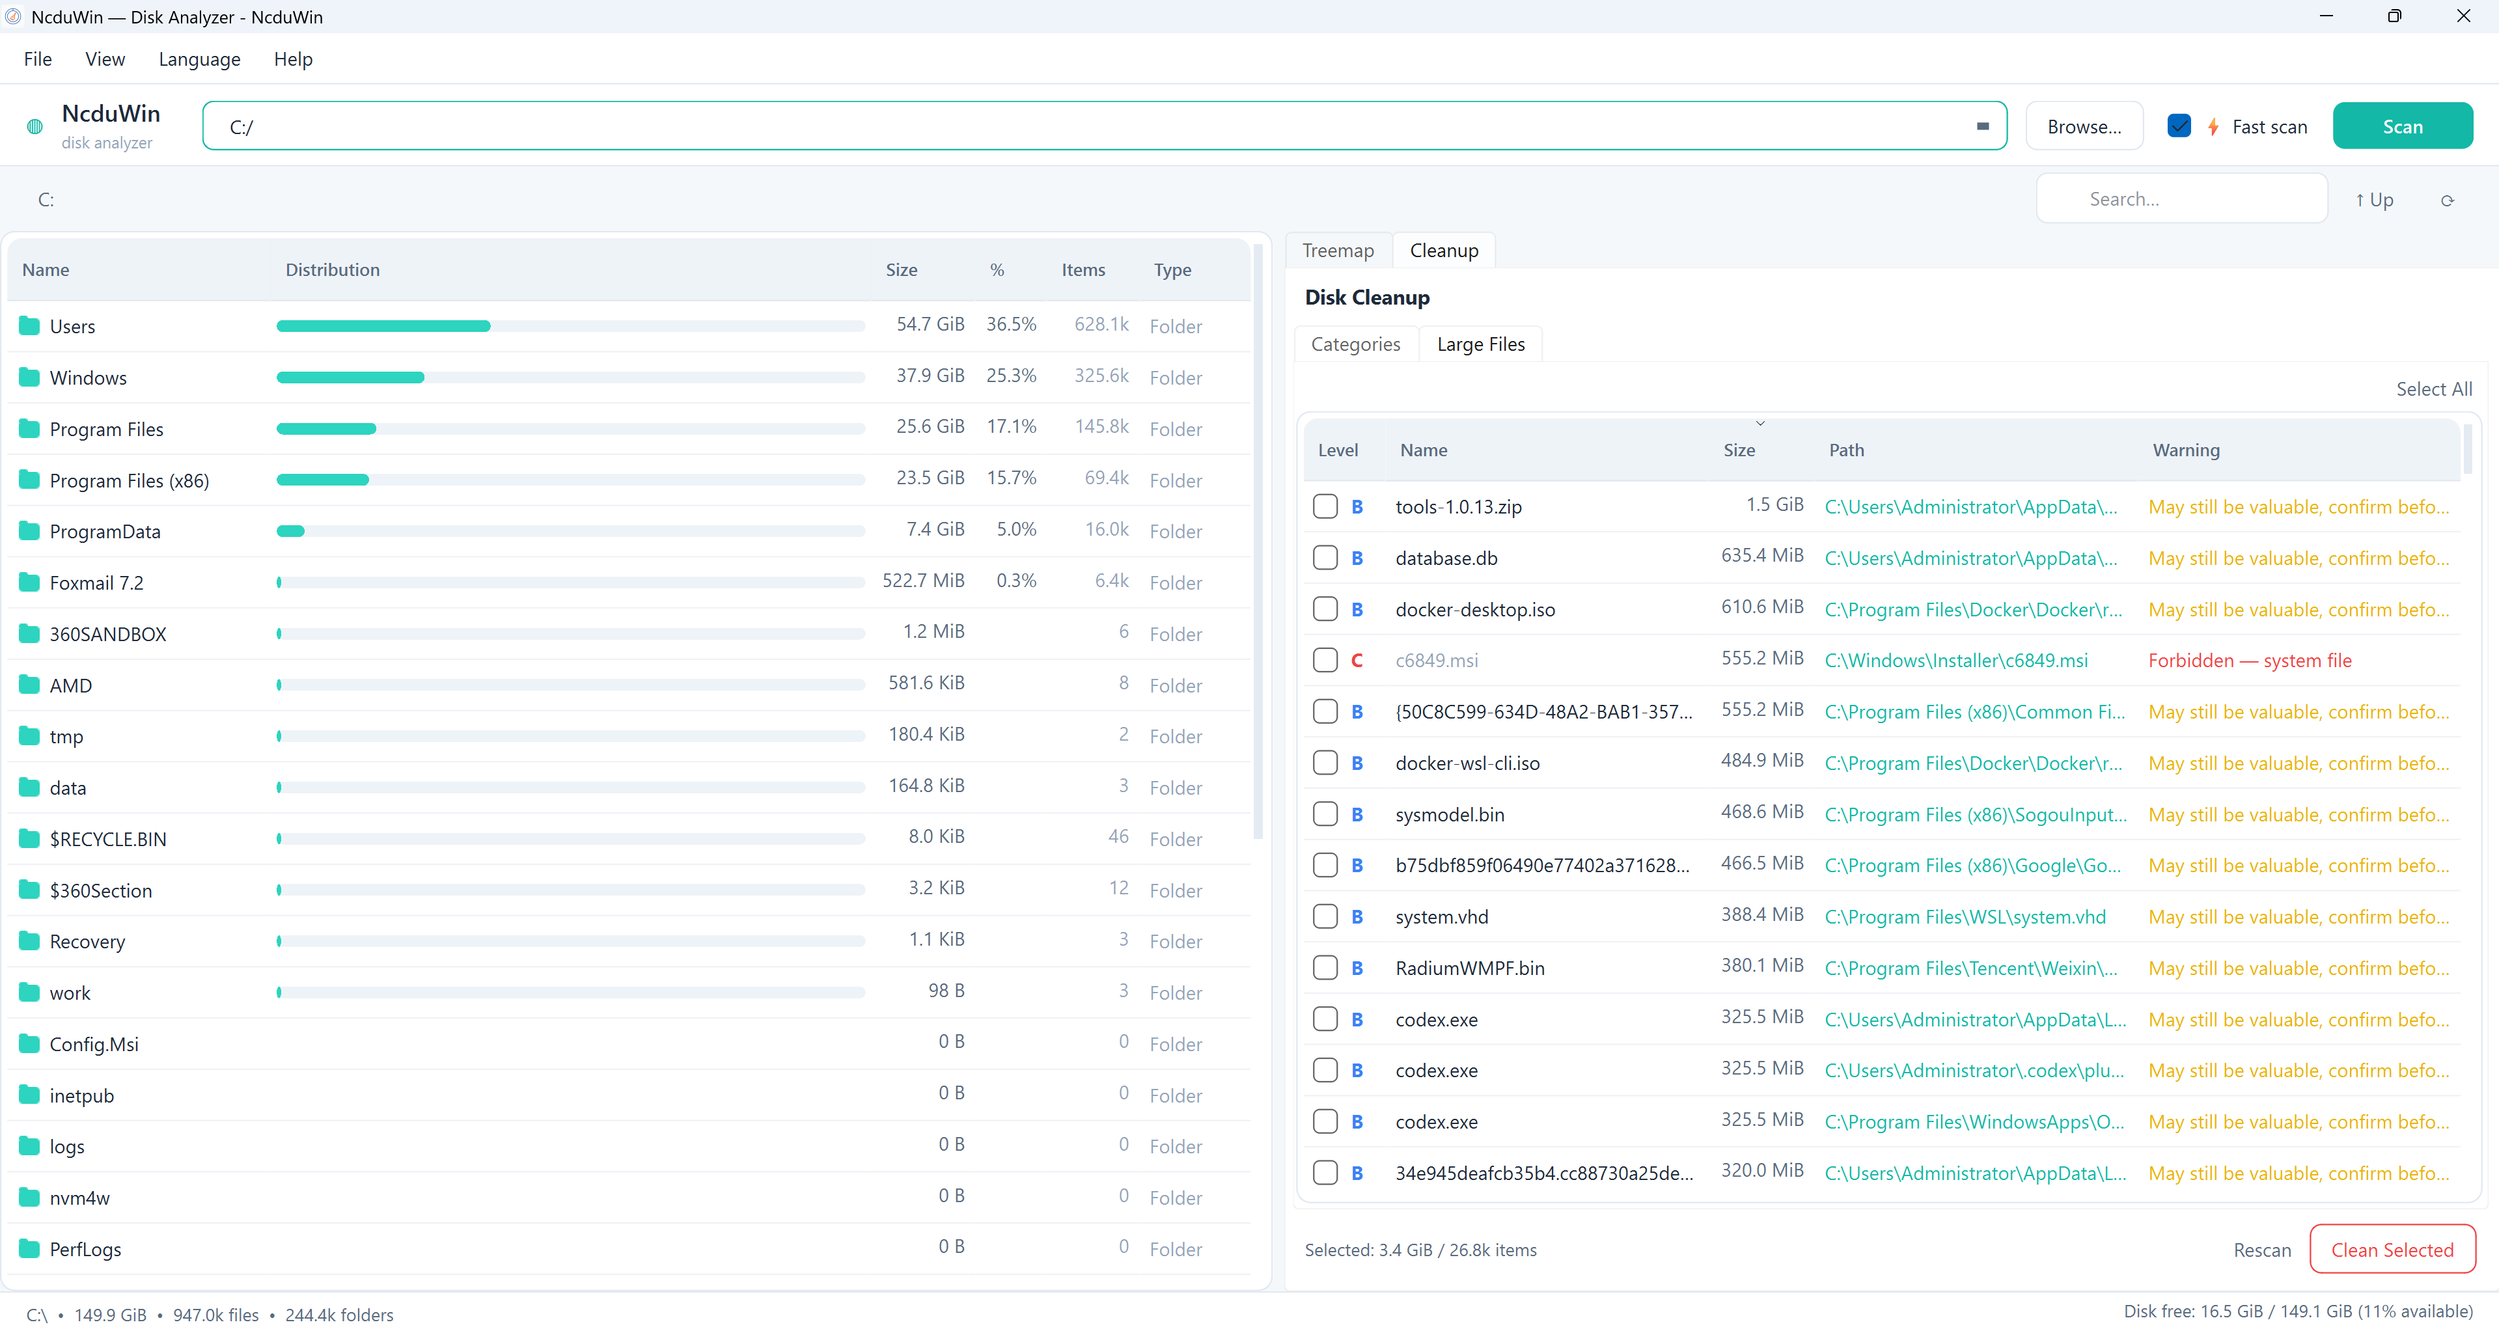
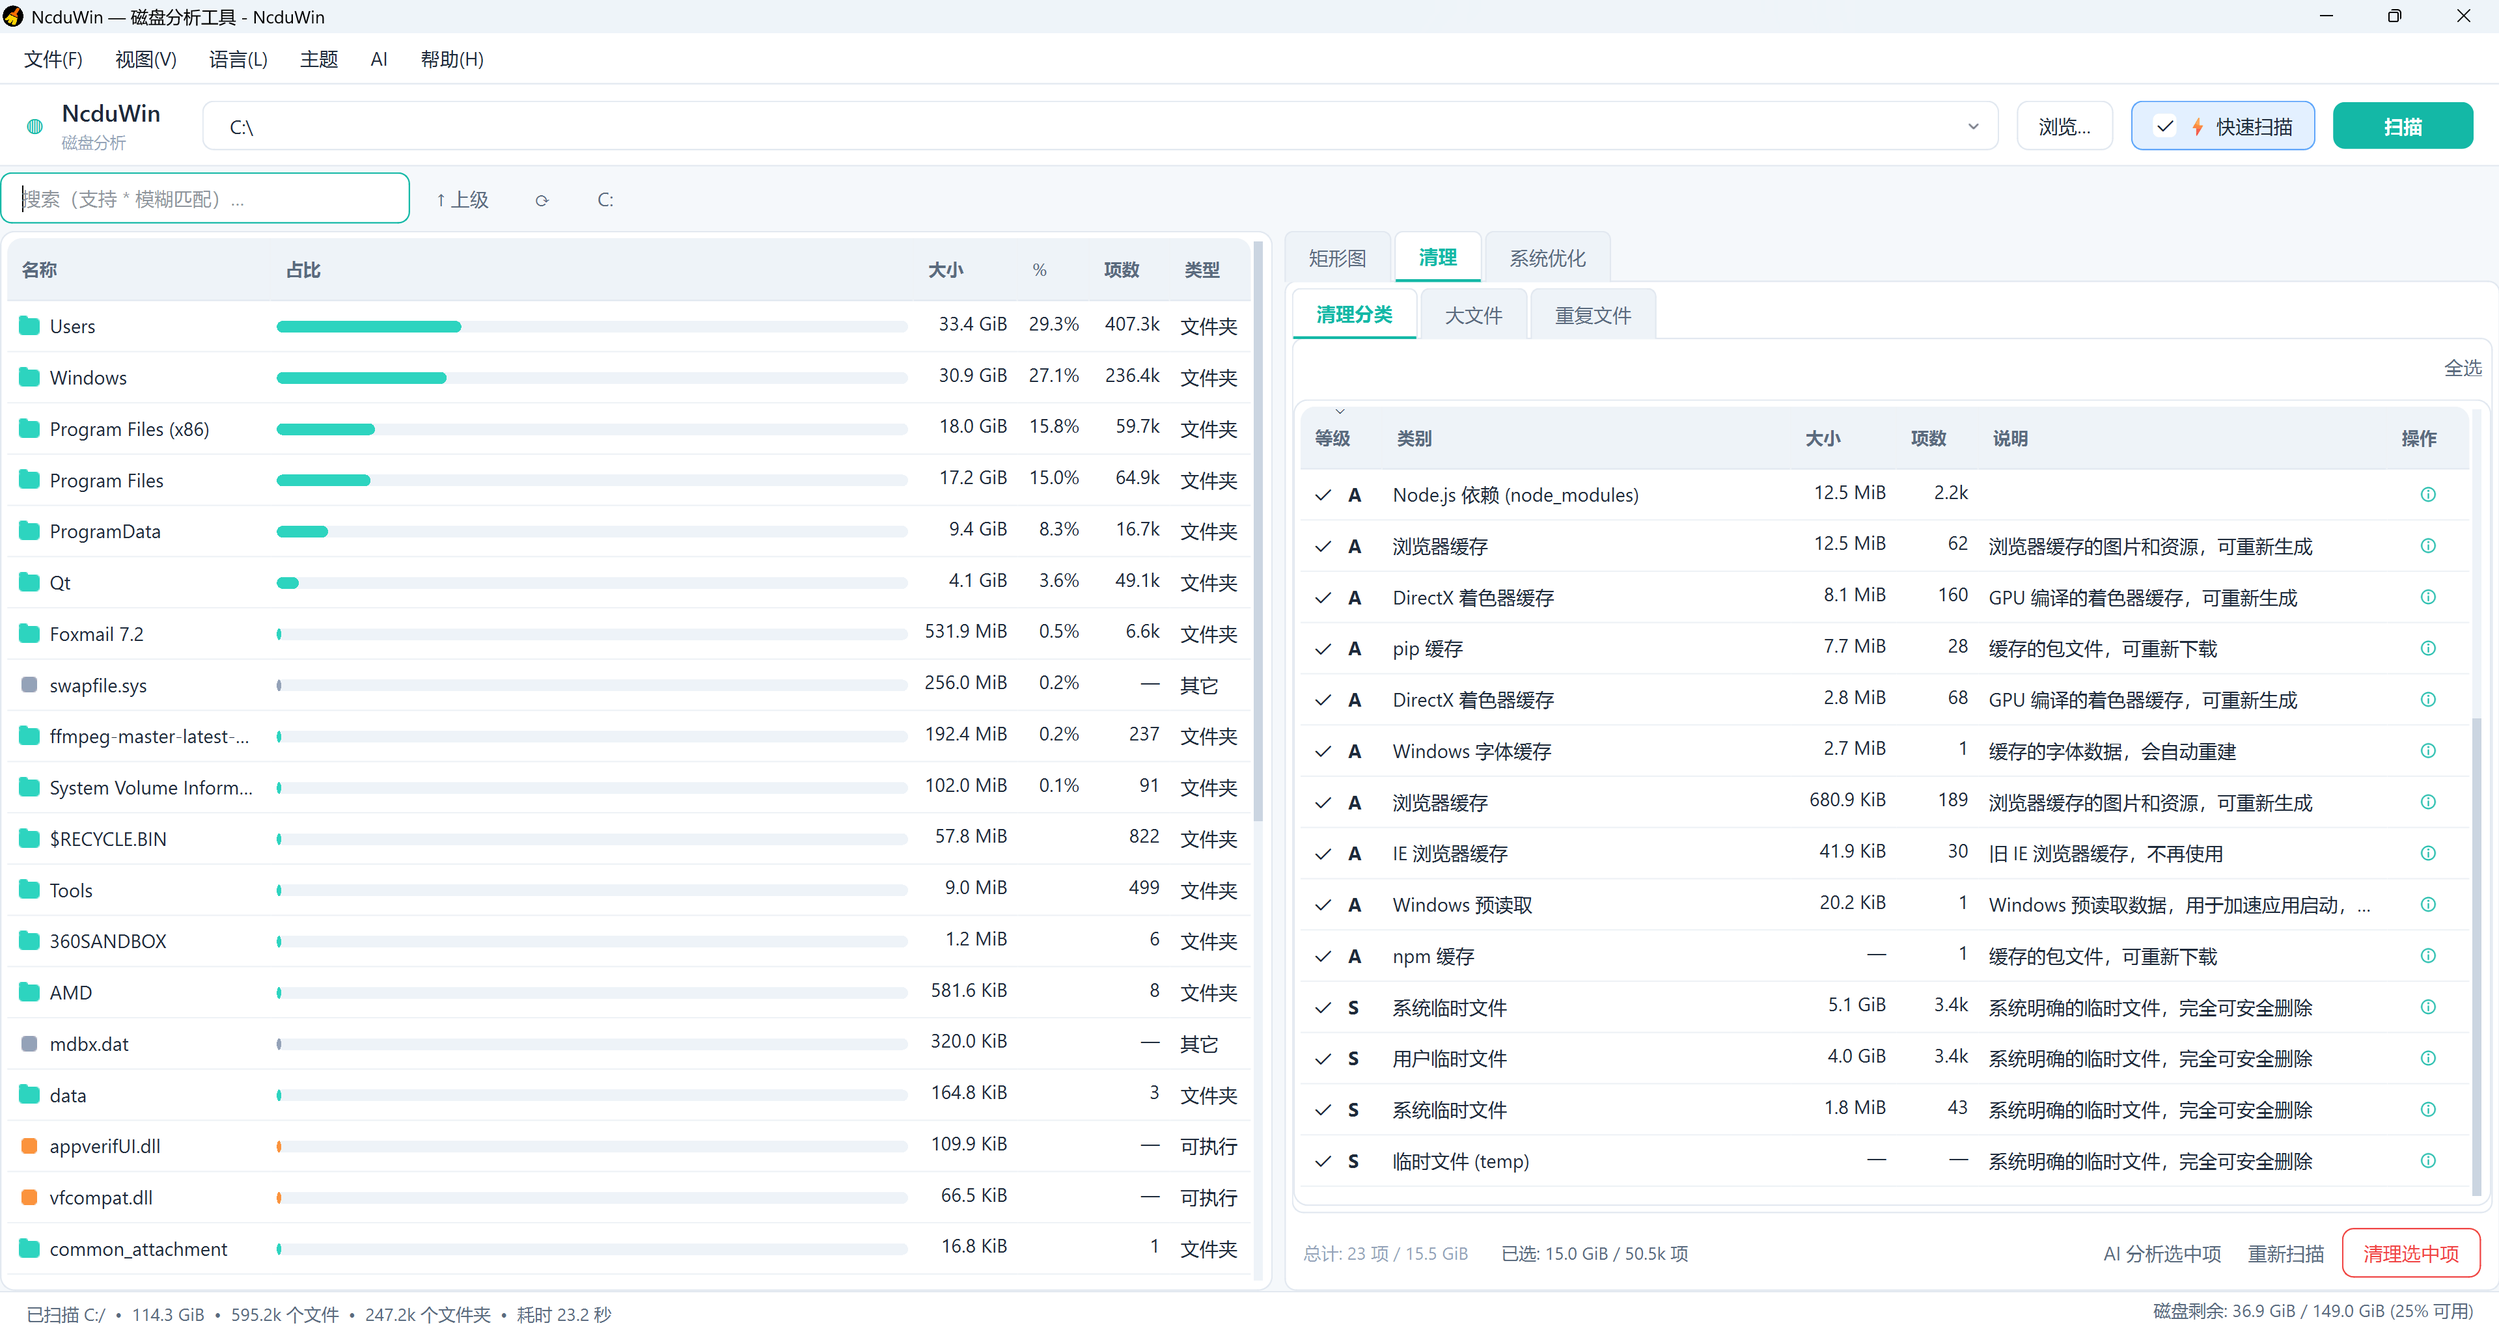
docs: 更新文档与截图，新增多项功能说明

diff --git a/README_ZH.md b/README_ZH.md
@@ -18,6 +18,7 @@ NcduWin 是一个原生桌面应用，它扫描您的磁盘并使用 ncdu 风格
 
 - **极速扫描** — 直接读取 NTFS 磁盘索引表（MFT）枚举文件，扫描速度比传统目录遍历方式快数倍；多线程处理让大容量硬盘依然保持流畅响应。
 - **重复文件查找** — 采用三级漏斗算法（大小分组 → 前 4KB 哈希 → 全文件哈希），以极低的 I/O 与内存开销精准识别重复文件。自动跳过系统二进制文件与用户数据，每组默认保留首个文件。
+- **AI 智能分析** — 选中文件、目录或待清理项，交给 AI 说明它的用途、是否可以安全清理以及清理风险，并可连续追问；兼容 OpenAI 风格接口，接口地址、API Key 与模型均可在「AI → AI 设置」中配置。
 - **主题切换** — 支持深色 / 浅色主题切换，并可自定义主题色，打造个性化视觉体验。
 - **跳过重型目录** — 可选择性跳过 `node_modules`、`.git` 等大型文件夹的深度扫描，同时仍显示其大小。
 - **完整系统访问** — 自动请求管理员权限，支持扫描 `C:\Windows` 和其他用户目录等受保护的系统文件夹。
@@ -32,6 +33,15 @@ NcduWin 是一个原生桌面应用，它扫描您的磁盘并使用 ncdu 风格
   - 大文件（>50MB），带安全等级分类
   - 重复文件，支持分组选择清理
 - **安全优先删除** — 五级安全系统（S/A/B/C/D）确保不会误删重要文件，系统状态与用户数据永不自动选中。
+- **系统配置优化** — 独立的「系统优化」标签页，一站式修复常见系统与网络问题：
+  - Windows 更新守护：一键开关自动更新，关闭后不再自动下载安装，需要时随时恢复
+  - 网络急救修复：重置 IP / DNS / IPv6 / Winsock / 防火墙并续约 DHCP，全程显示进度
+  - 刷新 DNS 缓存、重置应用商店缓存
+- **保存位置迁移** — 把占用 C 盘的目录整体搬到其他磁盘，原位置保留目录联接（junction），软件无需重新配置即可照常使用：
+  - 系统文件夹：下载 / 文档 / 桌面 / 图片 / 视频 / 音乐 / 3D 对象 / 联系人 / 收藏夹 / 链接 / 保存的游戏 / 搜索，共 12 个 Windows 库文件夹
+  - 软件数据目录：自动扫描 AppData / LocalAppData / LocalLow 及文档下的用户数据，支持勾选批量迁移
+- **迁移安全机制** — 复制 → 校验 → 建立目录联接 → 删除旧目录的分步流程，任一步失败可一键还原；目标目录会写入"请勿删除、移动或重命名"提示标记，避免误删导致数据不同步。
+- **扫描耗时统计** — 状态栏显示每次扫描的实际耗时，格式化显示为毫秒 / 秒 / 分秒 / 时分。
 - **启动自动扫描** — 首次启动立即显示用户主目录的空间使用情况。
 - **中英双语** — 内置本地化支持，语言选择自动保存。
 - **清新现代界面** — 柔和配色、圆角设计、清晰的视觉层次。
@@ -44,6 +54,14 @@ NcduWin 是一个原生桌面应用，它扫描您的磁盘并使用 ncdu 风格
 | 文件列表 + 树图 | 清理面板 |
 |---|---|
 | ![File list + treemap](docs/screenshots/treeMap.png) | ![Cleanup panel](docs/screenshots/cleanup.png) |
+
+| AI 分析 | 系统优化 |
+|---|---|
+| ![AI analysis](docs/screenshots/ai.png) | ![System optimization](docs/screenshots/system.png) |
+
+| 系统文件夹位置迁移 | 用户数据目录位置迁移 |
+|---|---|
+| ![System folder relocation](docs/screenshots/systemMenu.png) | ![User data folder relocation](docs/screenshots/userMenu.png) |
 
 ---
 
@@ -97,17 +115,32 @@ ncdu-win-qt/
 │   │   ├── FormatHelpers.h/cpp
 │   │   ├── I18n.h/cpp
 │   │   ├── Identify.h/cpp
+│   │   ├── KnownFolderPath.h   # 系统文件夹路径解析（含 OneDrive 重定向）
+│   │   ├── KnownFolderTable.h  # 12 个系统文件夹唯一定义表
 │   │   ├── Logger.h/cpp
 │   │   ├── MemoryMonitor.h
 │   │   ├── MftScanner.h/cpp    # NTFS MFT 直读（快速通道）
+│   │   ├── MoveDstResolver.h   # 批量迁移的目标路径推导
+│   │   ├── SafeMoveWorker.h/cpp  # 可取消、带校验的安全搬移线程
+│   │   ├── ScanRoots.h         # 用户数据扫描根目录
 │   │   └── WinApi.h/cpp
 │   ├── ui/                 # UI 组件
+│   │   ├── AppDataMovePanel.h/cpp   # 软件数据目录迁移面板
+│   │   ├── AppPathSyncDialog.h/cpp  # 系统文件夹位置迁移对话框
 │   │   ├── BreadcrumbBar.h/cpp
+│   │   ├── DialogI18n.h        # 统一确认 / 提示弹框
+│   │   ├── InstalledApps.h     # 已安装程序发现
 │   │   ├── LegendBar.h/cpp
 │   │   ├── MainWindow.h/cpp
 │   │   ├── SizeBarDelegate.h/cpp
 │   │   ├── Style.h
+│   │   ├── SystemOptPanel.h/cpp    # 系统配置优化面板
+│   │   ├── ToggleSwitch.h/cpp
 │   │   └── TreemapWidget.h/cpp
+│   ├── ai/                 # AI 分析
+│   │   ├── AiAnalysisDialog.h/cpp  # 分析结果窗口
+│   │   ├── AiService.h/cpp         # 请求与流式响应
+│   │   └── AiSettingsDialog.h/cpp  # 模型与密钥设置
 │   └── cleanup/            # 清理功能
 │       ├── CleanupPanel.h/cpp
 │       ├── CleanupScanner.h/cpp
@@ -115,19 +148,30 @@ ncdu-win-qt/
 │       ├── CleanupWorker.h/cpp
 │       └── DuplicateScanner.h/cpp  # 重复文件检测
 ├── locales/                # i18n JSON 文件
-│       ├── en.json
-│       └── zh.json
+│   ├── en.json
+│   └── zh.json
 ├── scripts/
 │   ├── build.bat           # 构建脚本 (CMake + MSVC + windeployqt + ISCC)
+│   ├── check_i18n.py       # 语言包审计（对称性 / 覆盖率 / 死键）
 │   ├── installer.iss       # Inno Setup 安装包脚本
 │   └── version.iss.in      # 安装包版本模板
 ├── tests/
 │   ├── test_scanner.cpp    # C++ 单元测试 (Qt Test)
 │   └── compare_scanners.cpp  # 扫描器对比基准测试
-├── docs/
+├── probe_lab/              # 回归靶场（7 个探针 / 118 项断言）
+│   ├── CMakeLists.txt
+│   └── run1/ … run7/       # 搬移安全 / 标记文件名 / 系统文件夹 / 语言刷新
+├── resources/              # 随程序嵌入的资源
+│   └── dont_delete_folder.ico  # 迁移目标"请勿删除"标记图标
+├── docs/                   # 官网与截图
+│   ├── index.html
 │   └── screenshots/
 │       ├── treeMap.png
-│       └── cleanup.png
+│       ├── cleanup.png
+│       ├── ai.png
+│       ├── system.png
+│       ├── systemMenu.png
+│       └── userMenu.png
 ├── app.ico
 ├── app.manifest
 ├── CMakeLists.txt

diff --git a/README.md b/README.md
@@ -27,6 +27,10 @@ dependencies bundled, and supports English / 简体中文 out of the box.
   first-4KB hash → full hash) identifies duplicate files with minimal
   I/O and memory. Safely skips system binaries and user data; the first
   file in each group is kept by default.
+- **AI analysis** — hand a file, folder or pending cleanup item to the AI to
+  explain what it is, whether it is safe to remove and what the risk is, then
+  keep asking follow-up questions. Works with any OpenAI-style endpoint; the
+  Base URL, API key and model are configurable under **AI → AI settings**.
 - **Theme switching** — switch between light and dark themes, or define
   your own custom accent colors for a personalized look.
 - **Skip heavy directories** — optionally skip deep scanning of large
@@ -51,6 +55,27 @@ dependencies bundled, and supports English / 简体中文 out of the box.
 - **Safety-first deletion** — five-level safety system (S/A/B/C/D) ensures
   you won't accidentally delete important files. System state and user
   data are never auto-selected.
+- **System optimization** — a dedicated System Optimization tab that fixes
+  common system and network problems in one place:
+  - Windows Update guard: toggle automatic updates off so nothing downloads
+    or installs on its own, and turn them back on whenever you want
+  - Network emergency repair: resets IP / DNS / IPv6 / Winsock / firewall
+    and renews DHCP, with live progress for every step
+  - Flush the DNS cache and reset the Microsoft Store cache
+- **Relocate save locations** — move C-drive-hungry folders to another disk
+  while a directory junction stays behind, so software keeps working with
+  no reconfiguration:
+  - System folders: Downloads / Documents / Desktop / Pictures / Videos /
+    Music / 3D Objects / Contacts / Favorites / Links / Saved Games /
+    Searches — all 12 Windows library folders
+  - App data folders: scans AppData / LocalAppData / LocalLow and Documents
+    for user data, with checkbox batch selection
+- **Move safety net** — a stepwise copy → verify → create junction →
+  remove source flow, with one-click restore if any step fails; the target
+  folder gets a "do not delete, move or rename" marker so it is never
+  removed by mistake and taken out of sync.
+- **Scan timing** — the status bar shows how long each scan actually took,
+  formatted as ms / s / min-s / h-min.
 - **Auto-scan on startup** — instantly shows your home directory usage
   on first launch.
 - **English and Chinese** — built-in localization with persistent language
@@ -67,6 +92,14 @@ dependencies bundled, and supports English / 简体中文 out of the box.
 | File list + treemap | Cleanup panel |
 |---|---|
 | ![File list + treemap](docs/screenshots/treeMap.png) | ![Cleanup panel](docs/screenshots/cleanup.png) |
+
+| AI analysis | System optimization |
+|---|---|
+| ![AI analysis](docs/screenshots/ai.png) | ![System optimization](docs/screenshots/system.png) |
+
+| System folder relocation | User data folder relocation |
+|---|---|
+| ![System folder relocation](docs/screenshots/systemMenu.png) | ![User data folder relocation](docs/screenshots/userMenu.png) |
 
 ---
 
@@ -121,17 +154,32 @@ ncdu-win-qt/
 │   │   ├── FormatHelpers.h/cpp
 │   │   ├── I18n.h/cpp
 │   │   ├── Identify.h/cpp
+│   │   ├── KnownFolderPath.h   # Known-folder resolution (incl. OneDrive redirects)
+│   │   ├── KnownFolderTable.h  # Single source of truth for the 12 known folders
 │   │   ├── Logger.h/cpp
 │   │   ├── MemoryMonitor.h
 │   │   ├── MftScanner.h/cpp    # NTFS MFT direct reader (fast path)
+│   │   ├── MoveDstResolver.h   # Target path resolution for batch moves
+│   │   ├── SafeMoveWorker.h/cpp  # Cancellable, verified move worker
+│   │   ├── ScanRoots.h         # User-data scan roots
 │   │   └── WinApi.h/cpp
 │   ├── ui/                 # UI components
+│   │   ├── AppDataMovePanel.h/cpp   # Application data relocation panel
+│   │   ├── AppPathSyncDialog.h/cpp  # Known-folder relocation dialog
 │   │   ├── BreadcrumbBar.h/cpp
+│   │   ├── DialogI18n.h        # Shared confirm / info dialogs
+│   │   ├── InstalledApps.h     # Installed-application discovery
 │   │   ├── LegendBar.h/cpp
 │   │   ├── MainWindow.h/cpp
 │   │   ├── SizeBarDelegate.h/cpp
 │   │   ├── Style.h
+│   │   ├── SystemOptPanel.h/cpp    # System optimization panel
+│   │   ├── ToggleSwitch.h/cpp
 │   │   └── TreemapWidget.h/cpp
+│   ├── ai/                 # AI analysis
+│   │   ├── AiAnalysisDialog.h/cpp  # Analysis result window
+│   │   ├── AiService.h/cpp         # Requests & streaming responses
+│   │   └── AiSettingsDialog.h/cpp  # Model & API key settings
 │   └── cleanup/            # Cleanup feature
 │       ├── CleanupPanel.h/cpp
 │       ├── CleanupScanner.h/cpp
@@ -139,19 +187,30 @@ ncdu-win-qt/
 │       ├── CleanupWorker.h/cpp
 │       └── DuplicateScanner.h/cpp  # Duplicate file detection
 ├── locales/                # i18n JSON files
-│       ├── en.json
-│       └── zh.json
+│   ├── en.json
+│   └── zh.json
 ├── scripts/
 │   ├── build.bat           # Build script (CMake + MSVC + windeployqt + ISCC)
+│   ├── check_i18n.py       # Translation audit (symmetry / coverage / dead keys)
 │   ├── installer.iss       # Inno Setup installer script
 │   └── version.iss.in      # Version template for installer
 ├── tests/
 │   ├── test_scanner.cpp    # C++ unit tests (Qt Test)
 │   └── compare_scanners.cpp  # Scanner comparison benchmarks
-├── docs/
+├── probe_lab/              # Regression harness (7 probes / 118 assertions)
+│   ├── CMakeLists.txt
+│   └── run1/ … run7/       # Move safety / marker names / known folders / language refresh
+├── resources/              # Resources embedded into the binary
+│   └── dont_delete_folder.ico  # "Do not delete" marker for move targets
+├── docs/                   # Website & screenshots
+│   ├── index.html
 │   └── screenshots/
 │       ├── treeMap.png
-│       └── cleanup.png
+│       ├── cleanup.png
+│       ├── ai.png
+│       ├── system.png
+│       ├── systemMenu.png
+│       └── userMenu.png
 ├── app.ico
 ├── app.manifest
 ├── CMakeLists.txt
